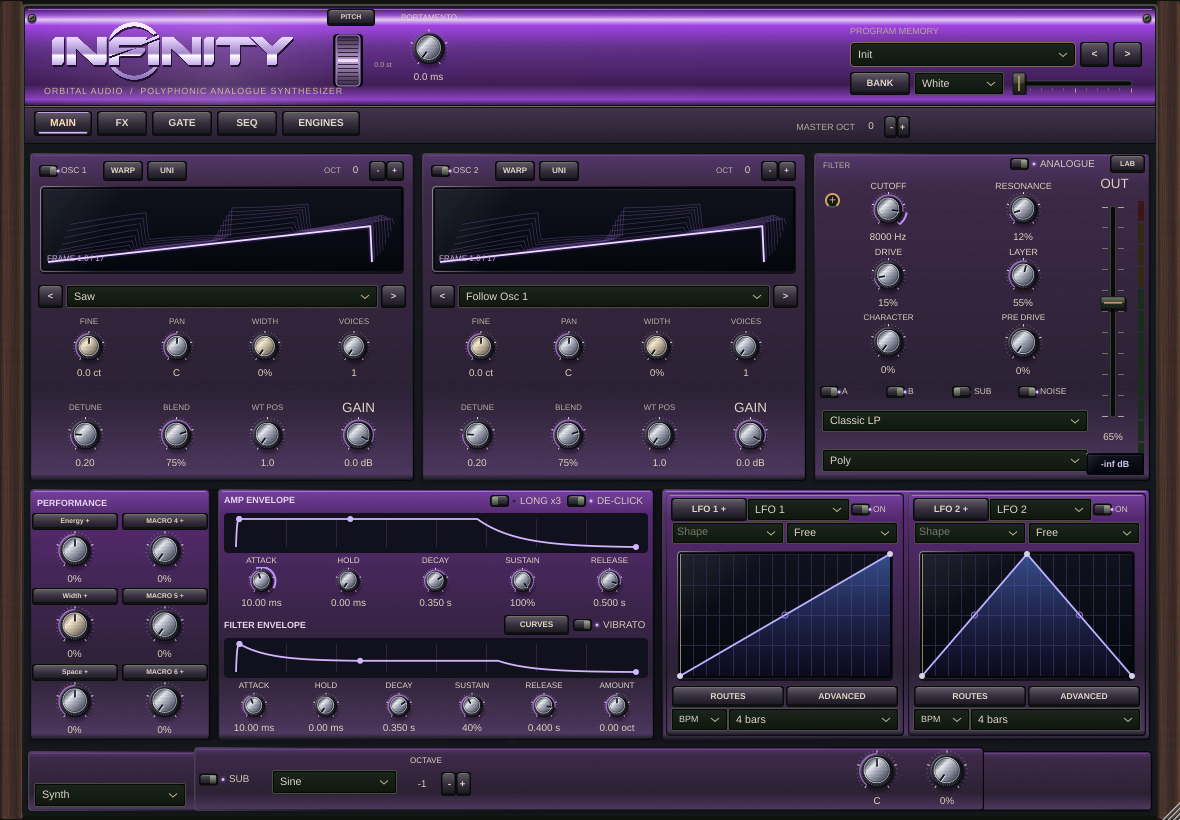
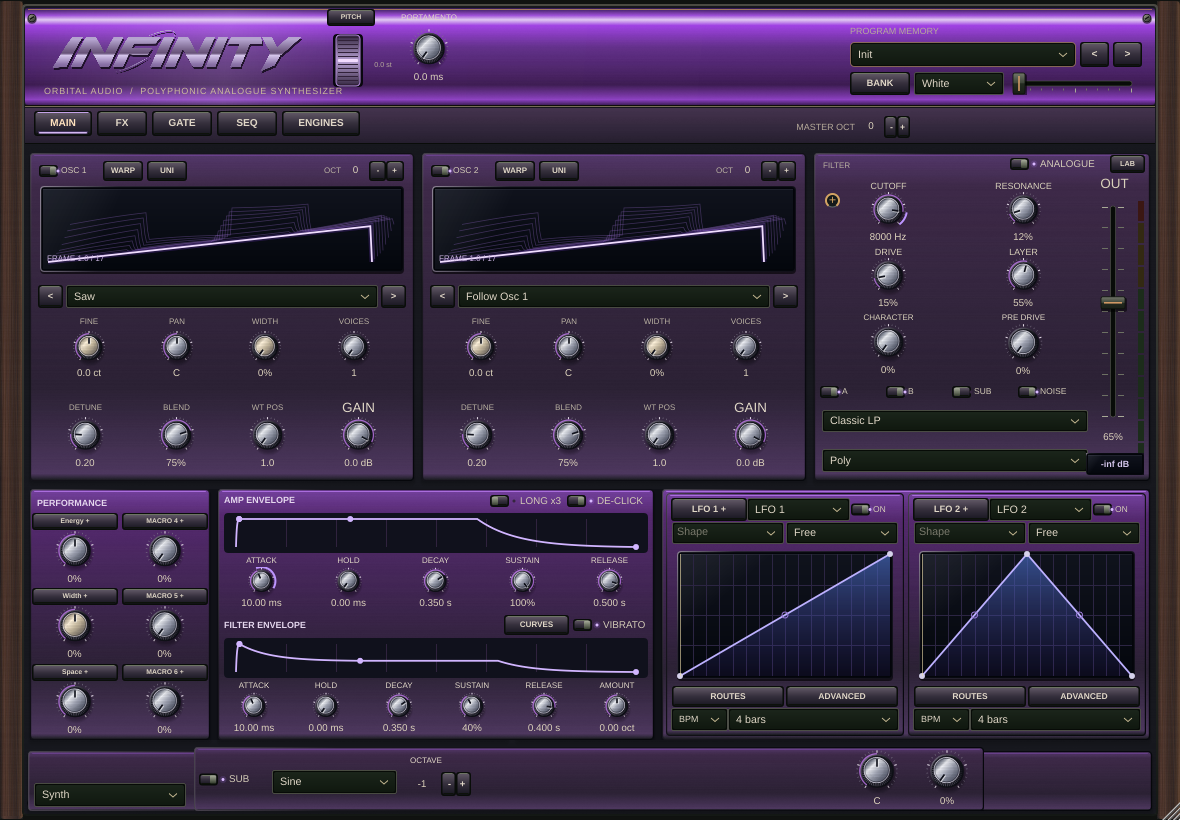
Add approved hard-trance badge with output-reactive purple lighting

Changed region(s): [[0.0305, 0.0305, 0.2746, 0.122]]

diff --git a/native-vst3/Tests/AnalogueExpansionSmoke.cpp b/native-vst3/Tests/AnalogueExpansionSmoke.cpp
@@ -26,6 +26,7 @@ int runAnalogueExpansionSmoke(){try{
     set(*p,"analogueThermal",.7f);set(*p,"ampHold",.037f);set(*p,"filterReleaseCurve",-.3f);set(*p,"osc2Pan",-.8f);set(*p,"concertPitch",442);juce::MemoryBlock saved;p->getStateInformation(saved);auto recalled=std::make_unique<SpaceInfinityProcessor>();recalled->setStateInformation(saved.getData(),int(saved.getSize()));for(auto id:{"analogueThermal","ampHold","filterReleaseCurve","osc2Pan","concertPitch"})need(get(*p,id)==get(*recalled,id),"analogue and envelope settings recall");
     const auto fixtureFolder=juce::File::getSpecialLocation(juce::File::tempDirectory).getNonexistentChildFile("InfinityConcertPitch",{},false);fixtureFolder.createDirectory();const auto fixture=fixtureFolder.getChildFile("A440.wav");juce::AudioBuffer<float> sine(1,48000);for(int n=0;n<48000;++n)sine.setSample(0,n,.5f*std::sin(juce::MathConstants<double>::twoPi*440*n/48000));{auto stream=fixture.createOutputStream();juce::WavAudioFormat wav;std::unique_ptr<juce::AudioFormatWriter> writer(wav.createWriterFor(stream.get(),48000,1,24,{},0));need(writer!=nullptr,"concert-pitch fixture writer");stream.release();need(writer->writeFromAudioSampleBuffer(sine,0,48000),"concert-pitch fixture samples");}auto tuned=std::make_unique<SpaceInfinityProcessor>();clean(*tuned);need(tuned->importSample(fixture).wasOk(),"concert-pitch fixture import");set(*tuned,"source",3);set(*tuned,"sampleRoot",69);set(*tuned,"sampleLoop",1);set(*tuned,"concertPitch",442);set(*tuned,"routeA",0);tuned->prepareToPlay(48000,128);juce::AudioBuffer<float> tunedAudio(2,128);int firstCross=-1,lastCross=-1,crossings=0;float previous=0;for(int block=0;block<220;++block){juce::MidiBuffer midi;if(block==0)midi.addEvent(juce::MidiMessage::noteOn(1,69,.8f),0);tuned->processBlock(tunedAudio,midi);for(int n=0;n<128;++n){const float value=tunedAudio.getSample(0,n);if(block>30&&value>=0&&previous<0){const int sample=block*128+n;if(firstCross<0)firstCross=sample;lastCross=sample;++crossings;}previous=value;}}const double pitch=48000.0*(crossings-1)/(lastCross-firstCross);need(std::abs(pitch-442)<.2,"concert A4 tuning applies to sample playback");for(int mode:{1,2}){set(*tuned,"voiceMode",float(mode));set(*tuned,"glideTime",.12f);set(*tuned,"concertPitch",440);tuned->prepareToPlay(48000,128);float prior=0;const auto hz=[&](int blocks,int note){int count=0;for(int block=0;block<blocks;++block){juce::MidiBuffer midi;if(block==0&&note>=0)midi.addEvent(juce::MidiMessage::noteOn(1,note,.8f),0);tuned->processBlock(tunedAudio,midi);for(int n=0;n<128;++n){const float v=tunedAudio.getSample(0,n);if(prior<=0&&v>0)++count;prior=v;}}return count*48000.0/(blocks*128);};hz(80,69);const auto early=hz(8,81);hz(220,-1);const auto late=hz(40,-1);need(early>400&&early<700&&late>820&&late<930,"sample playback supports mono and legato portamento");}fixtureFolder.deleteRecursively();
     auto editor=std::unique_ptr<juce::AudioProcessorEditor>(p->createEditor());editor->setSize(800,760);for(auto name:{"Analogue character","Pre-filter drive","Portamento time","Pitch Wheel","Amp envelope graph","Filter envelope graph","Amp HOLD","Filter HOLD","Oscillator 1 pan","Oscillator 2 pan","Sub pan"})need(find(*editor,name)!=nullptr,"main analogue/envelope controls present");for(bool amp:{true,false}){auto* view=find(*editor,amp?"Amp envelope graph":"Filter envelope graph");need(view&&view->isVisible()&&view->getParentComponent()->isVisible()&&view->getHeight()>=32,"envelope graph visible on main page");const auto before=view->createComponentSnapshot(view->getLocalBounds());set(*p,amp?"attack":"filterAttack",.7f);set(*p,amp?"ampSustain":"filterSustain",.2f);const auto after=view->createComponentSnapshot(view->getLocalBounds());int changed=0;for(int y=0;y<before.getHeight();++y)for(int x=0;x<before.getWidth();++x)if(before.getPixelAt(x,y)!=after.getPixelAt(x,y))++changed;need(changed>20,"main envelope drawing follows knob parameters");}StudioRack rack(*p);rack.setSize(900,1800);int lastY=-1;for(int stage:{3,0,4,5,6,1,7,2}){auto* module=rack.module(stage);need(module&&module->getY()>lastY,"FX display follows actual DSP signal order");lastY=module->getY();}{rack.setLookAndFeel(&editor->getLookAndFeel());juce::Image spaces(juce::Image::ARGB,900,rack.module(7)->getHeight()+rack.module(2)->getHeight(),true);juce::Graphics canvas(spaces);int top=0;for(int stage:{7,2}){auto* module=rack.module(stage);canvas.drawImageAt(module->createComponentSnapshot(module->getLocalBounds()),0,top);top+=module->getHeight();}const auto folder=juce::File::getCurrentWorkingDirectory().getChildFile("audition");folder.createDirectory();auto file=folder.getChildFile("FX-Spaces.png");file.deleteFile();auto stream=file.createOutputStream();need(stream&&juce::PNGImageFormat{}.writeImageToStream(spaces,*stream),"space FX preview saved");rack.setLookAndFeel(nullptr);}ExtendedPanel panel(*p);juce::TabbedComponent* tabs=nullptr;for(auto* child:panel.getChildren())if(auto* t=dynamic_cast<juce::TabbedComponent*>(child))tabs=t;need(tabs!=nullptr,"engine tabs available");tabs->setCurrentTabIndex(5);for(const auto* pitch:{"MIDI BEND","PITCH VELOCITY","PITCH ENVELOPE","PITCH ATTACK","PITCH DECAY"})need(find(*tabs->getCurrentContentComponent(),pitch)==nullptr,"pitch controls removed from analogue section");tabs->setCurrentTabIndex(6);need(find(panel,"Amp envelope graph")!=nullptr,"interactive amp graph available");tabs->setCurrentTabIndex(0);need(find(panel,"Filter envelope graph")!=nullptr,"interactive filter graph available");
+    {auto signal=std::make_unique<SpaceInfinityProcessor>();clean(*signal);set(*signal,"routeA",0);set(*signal,"gain",.8f);signal->prepareToPlay(48000,128);auto badge=std::unique_ptr<juce::AudioProcessorEditor>(signal->createEditor());badge->setSize(1180,820);const juce::Rectangle<int> crop(52,22,250,58);const auto idle=badge->createComponentSnapshot(crop);juce::AudioBuffer<float> output(2,128);for(int block=0;block<45;++block){juce::MidiBuffer midi;if(block==0)midi.addEvent(juce::MidiMessage::noteOn(1,60,.9f),0);signal->processBlock(output,midi);}need(output.getMagnitude(0,output.getNumSamples())>.001f,"logo fixture has actual output");for(int frame=0;frame<12;++frame){juce::MidiBuffer midi;signal->processBlock(output,midi);juce::Thread::sleep(35);juce::Timer::callPendingTimersSynchronously();}const auto lit=badge->createComponentSnapshot(crop);int changed=0;for(int y=0;y<idle.getHeight();++y)for(int x=0;x<idle.getWidth();++x)if(idle.getPixelAt(x,y)!=lit.getPixelAt(x,y))++changed;need(changed>100,"actual output illuminates inside logo");const auto folder=juce::File::getCurrentWorkingDirectory().getChildFile("audition");for(int frame=0;frame<2;++frame){auto file=folder.getChildFile(frame?"Logo-Active.png":"Logo-Idle.png");file.deleteFile();auto stream=file.createOutputStream();need(stream&&juce::PNGImageFormat{}.writeImageToStream(frame?lit:idle,*stream),"logo light preview saved");}set(*signal,"gain",0);for(int block=0;block<40;++block){juce::MidiBuffer midi;signal->processBlock(output,midi);}for(int frame=0;frame<40;++frame){juce::Thread::sleep(35);juce::Timer::callPendingTimersSynchronously();}const auto silent=badge->createComponentSnapshot(crop);int residual=0;for(int y=0;y<idle.getHeight();++y)for(int x=0;x<idle.getWidth();++x)if(idle.getPixelAt(x,y)!=silent.getPixelAt(x,y))++residual;need(residual<10,"muted held notes fade logo back to idle");}
     auto old=p->state.copyState();for(int i=old.getNumChildren();--i>=0;){const auto id=old.getChild(i).getProperty("id").toString();if(id=="cleanVCO"||id=="analogueLabEnabled"||id=="stereoFilterUpgrade"||id=="concertPitch"||id.endsWith("Pan")||id.endsWith("Hold")||id.endsWith("Curve")||id.startsWith("analogueOsc")||id.startsWith("analogueThermal")||id.startsWith("analogueFilterSpread")||id.startsWith("analogueEnvSpread")||id.startsWith("analogueVoiceSpread")||id.startsWith("analoguePulse")||id.startsWith("analogueVCA")||id.startsWith("analogueAsymmetry")||id.startsWith("analogueMemory")||id.startsWith("analogueCoupling"))old.removeChild(i,nullptr);}juce::MemoryBlock oldData;juce::AudioProcessor::copyXmlToBinary(*old.createXml(),oldData);recalled->setStateInformation(oldData.getData(),int(oldData.getSize()));need(get(*recalled,"cleanVCO")==0&&get(*recalled,"analogueLabEnabled")==0&&get(*recalled,"stereoFilterUpgrade")==0&&get(*recalled,"ampHold")==0&&get(*recalled,"osc2Pan")==0&&get(*recalled,"concertPitch")==440,"old presets retain legacy defaults");
     std::cout<<"Analogue expansion: hold/curves, zero-colour bypass, VCA audio, stability/silence, all six stereo filters/four source pans, interactive envelopes, modulation targets and old/new recall passed\n";return 0;
 }catch(const std::exception& e){std::cerr<<"Analogue expansion failure: "<<e.what()<<'\n';return 124;}}

diff --git a/native-vst3/Source/PluginEditor.cpp b/native-vst3/Source/PluginEditor.cpp
@@ -260,10 +260,14 @@ void drawInset(juce::Graphics& g,juce::Rectangle<float> bounds){
 }
 SpaceInfinityEditor::SpaceInfinityEditor(SpaceInfinityProcessor& p):AudioProcessorEditor(&p),processor(p){
     setLookAndFeel(&hardwareLook);
-    infinityLogo=juce::ImageFileFormat::loadFrom(Artwork::InfinityLogo_png,Artwork::InfinityLogo_pngSize);
-    if(infinityLogo.isValid()){juce::Rectangle<int> ink;
-        for(int y=0;y<infinityLogo.getHeight();++y)for(int x=0;x<infinityLogo.getWidth();++x)if(infinityLogo.getPixelAt(x,y).getAlpha()>128)ink=ink.getUnion({x,y,1,1});
-        infinityLogo=infinityLogo.getClippedImage(ink.expanded(2).getIntersection(infinityLogo.getBounds()));}
+    const auto brandMaster=juce::ImageFileFormat::loadFrom(Artwork::InfinityLogo_png,Artwork::InfinityLogo_pngSize);
+    if(brandMaster.isValid()){
+        // The clean monochrome master supplies coverage, not a baked black plate.
+        infinityLogo=juce::Image(juce::Image::ARGB,brandMaster.getWidth(),brandMaster.getHeight(),true);
+        juce::Image::BitmapData source(brandMaster,juce::Image::BitmapData::readOnly),mask(infinityLogo,juce::Image::BitmapData::writeOnly);juce::Rectangle<int> ink;
+        for(int y=0;y<brandMaster.getHeight();++y)for(int x=0;x<brandMaster.getWidth();++x){const auto pixel=source.getPixelColour(x,y);const float coverage=juce::jlimit(0.0f,1.0f,(pixel.getBrightness()-.12f)/.76f)*pixel.getFloatAlpha();mask.setPixelColour(x,y,juce::Colours::white.withAlpha(coverage));if(coverage>.5f)ink=ink.getUnion({x,y,1,1});}
+        infinityLogo=infinityLogo.getClippedImage(ink.expanded(2).getIntersection(infinityLogo.getBounds()));
+    }
 
     setResizable(true,true);setResizeLimits(800,760,1500,950);setSize(1180,820);
     title.setText("SPACE INFINITY",juce::dontSendNotification);title.setFont(juce::Font(juce::FontOptions(29.0f,juce::Font::bold).withKerningFactor(.075f)));title.setColour(juce::Label::textColourId,juce::Colour(0xffefe4cb));addAndMakeVisible(title);
@@ -670,6 +674,9 @@ void SpaceInfinityEditor::timerCallback(){
     if(displayedPresetKey!=processor.selectedPresetKey())refreshPresetMenu();
     const float peak=processor.takeOutputPeak();
     meterPeak=juce::jmax(peak,meterPeak*0.88f);
+    const float targetLogoLevel=peak>.00003f?juce::jlimit(0.0f,1.0f,(juce::Decibels::gainToDecibels(peak)+54.0f)/54.0f):0.0f;
+    logoLevel+=(targetLogoLevel-logoLevel)*(targetLogoLevel>logoLevel?.75f:.22f);if(logoLevel<.002f)logoLevel=0;
+
     clipHold=peak>=1.0f?30:juce::jmax(0,clipHold-1);
     const bool sampled=processor.state.getRawParameterValue("source")->load()>.5f;
     if(sampleDisplay)sampleDisplay->setVisible(!fxPage&&sampled);
@@ -982,9 +989,16 @@ void SpaceInfinityEditor::paint(juce::Graphics& g){
     g.drawImageAt(hardwareFace,0,0);
     if(infinityLogo.isValid()){
         g.setImageResamplingQuality(juce::Graphics::highResamplingQuality);
-        const int logoWidth=juce::jlimit(220,340,getWidth()-480);const int placement=juce::RectanglePlacement::xLeft|juce::RectanglePlacement::yMid;
+        const int logoWidth=juce::jmin(250,getWidth()-540);const int placement=juce::RectanglePlacement::xLeft|juce::RectanglePlacement::yMid;
         g.setColour(juce::Colour(0xbb08050c));g.drawImageWithin(infinityLogo,53,24,logoWidth,58,placement,true);
-        juce::ColourGradient foil(juce::Colour(0xfffff5ff),0,22,juce::Colour(0xff8b6cba),0,80,false);foil.addColour(.30,juce::Colour(0xffe5d5ff));foil.addColour(.53,juce::Colour(0xffa88acb));foil.addColour(.57,juce::Colour(0xffffffff));foil.addColour(.72,juce::Colour(0xffcbb2f2));g.setGradientFill(foil);g.drawImageWithin(infinityLogo,52,22,logoWidth,58,placement,true);
+        juce::ColourGradient foil(juce::Colour(0xffaea3c5),0,22,juce::Colour(0xff50405f),0,80,false);foil.addColour(.30,juce::Colour(0xffb6a5d0));foil.addColour(.53,juce::Colour(0xff655076));foil.addColour(.57,juce::Colour(0xffd4c5ea));foil.addColour(.72,juce::Colour(0xff8b72a8));g.setGradientFill(foil);g.drawImageWithin(infinityLogo,52,22,logoWidth,58,placement,true);
+        if(logoLevel>0){
+            // Illuminate inside the letter coverage only, like a level light in a metal badge.
+            juce::Graphics::ScopedSaveState illuminated(g);const float litWidth=logoWidth*logoLevel;
+            g.reduceClipRegion(juce::Rectangle<int>(52,22,juce::roundToInt(litWidth),58));
+            const float alpha=.2f+.75f*logoLevel;juce::ColourGradient light(juce::Colour(0xffbf7aff).withAlpha(alpha),52,51,juce::Colour(0xfff4ddff).withAlpha(alpha),52+litWidth,51,false);light.addColour(.74,juce::Colour(0xffedb7ff).withAlpha(alpha));g.setGradientFill(light);g.drawImageWithin(infinityLogo,52,22,logoWidth,58,placement,true);
+        }
+
     }
 
     g.setFont(10.0f);

diff --git a/native-vst3/Tests/Smoke.cpp b/native-vst3/Tests/Smoke.cpp
@@ -17,7 +17,7 @@ int runLeadSmoke();
 int runGrooveSmoke();
 
 int writeParameterInventory(const juce::File& file){
-    auto p=std::make_unique<SpaceInfinityProcessor>();auto* root=new juce::DynamicObject;juce::var result(root);root->setProperty("native_version","0.4.0");root->setProperty("manual_reference","https://xferrecords.com/manual/serum-2/docs");root->setProperty("notes","Host defaults preserve omitted-field legacy recall. Init values reflect a fresh Init preset. Ranges are native parameter units; UI formatting may apply units and scaling.");juce::Array<juce::var> rows;
+    auto p=std::make_unique<SpaceInfinityProcessor>();auto* root=new juce::DynamicObject;juce::var result(root);root->setProperty("native_version","0.4.1");root->setProperty("manual_reference","https://xferrecords.com/manual/serum-2/docs");root->setProperty("notes","Host defaults preserve omitted-field legacy recall. Init values reflect a fresh Init preset. Ranges are native parameter units; UI formatting may apply units and scaling.");juce::Array<juce::var> rows;
     for(auto* parameter:p->getParameters())if(auto* a=dynamic_cast<juce::RangedAudioParameter*>(parameter)){auto* row=new juce::DynamicObject;row->setProperty("id",a->paramID);row->setProperty("name",a->getName(120));row->setProperty("type",dynamic_cast<juce::AudioParameterBool*>(a)?"boolean":dynamic_cast<juce::AudioParameterChoice*>(a)?"choice":dynamic_cast<juce::AudioParameterInt*>(a)?"integer":"float");row->setProperty("minimum",a->convertFrom0to1(0));row->setProperty("maximum",a->convertFrom0to1(1));row->setProperty("host_default",a->convertFrom0to1(a->getDefaultValue()));row->setProperty("init_value",p->state.getRawParameterValue(a->paramID)->load());if(auto* choice=dynamic_cast<juce::AudioParameterChoice*>(a)){juce::Array<juce::var> names;for(const auto& name:choice->choices)names.add(name);row->setProperty("choices",names);}rows.add(juce::var(row));}root->setProperty("parameter_count",rows.size());root->setProperty("parameters",rows);if(file.getParentDirectory().createDirectory().failed()||!file.replaceWithText(juce::JSON::toString(result)))return 125;std::cout<<"Exported "<<rows.size()<<" native parameters to "<<file.getFullPathName()<<'\n';return 0;
 }
 

diff --git a/native-vst3/Source/PluginEditor.h b/native-vst3/Source/PluginEditor.h
@@ -31,7 +31,7 @@ private:
     float lastMotionValue=0.0f;
     std::array<bool,17> motionGestures{};
     juce::Rectangle<int> meterBounds;
-    float meterPeak=0.0f;
+    float meterPeak=0.0f,logoLevel=0.0f;
     int clipHold=0;
     HardwareTheme hardwareLook;
     juce::Image hardwareFace;

diff --git a/docs/TESTING_STUDIO_BUILD.md b/docs/TESTING_STUDIO_BUILD.md
@@ -1,6 +1,6 @@
-# Testing SPACE INFINITY 0.4.0
+# Testing SPACE INFINITY 0.4.1
 
-Download the **installer ZIP** from the [v0.4.0 release](https://github.com/vegadubstep-star/Space-Infinity/releases/tag/v0.4.0) once its Windows workflow has published it. Sign into GitHub if needed. Extract All, close FL Studio, run `SPACE_INFINITY_0.4.0_Windows_x64_Setup.exe`, then reopen FL Studio and load a fresh SPACE INFINITY instance. The plugin identity and user preset storage are preserved.
+Download the **installer ZIP** from the [v0.4.1 release](https://github.com/vegadubstep-star/Space-Infinity/releases/tag/v0.4.1) once its Windows workflow has published it. Sign into GitHub if needed. Extract All, close FL Studio, run `SPACE_INFINITY_0.4.1_Windows_x64_Setup.exe`, then reopen FL Studio and load a fresh SPACE INFINITY instance. The plugin identity and user preset storage are preserved.
 
 [Analogue update](ANALOGUE_AND_PARITY_UPDATE.md) / [Serum 2 audit](SERUM2_FEATURE_AUDIT.md) / [earlier rhythm changes](RHYTHM_AND_METAL_UPDATE.md) / [previous control and FX updates](TEN_CONTROL_UPDATES.md)
 
@@ -23,3 +23,5 @@ Use the installer ZIP for normal setup. The standalone VST3 ZIP is the manual-in
 Latest UI checks: MAIN shows both amp/filter curves above their knobs. Adjust Attack, Hold, Decay, Sustain and Release and confirm each graph changes. LFO shape presets should show few main anchors; use outlined midpoint handles to bend segments, or Advanced for Grid/Draw. For delay, reverb and convolver, fully lower OUTPUT GAIN until MUTE is displayed: both dry and wet stage output should become silent after the short smoothing ramp, with no live stage peak. Raising gain should restore sound. DRY/WET and convolver WET LEVEL affect wet blending rather than muting the whole stage. Saved output values at the old −24 dB minimum now mute.
 
 MAIN analogue/pitch checks: Character, PRE DRIVE, ANALOGUE and LAB should sit beside the filter at all four sizes. PITCH opens a separate pitch page; ANALOGUE has no pitch-envelope or pitch-bend controls. Set Mono or Legato, raise PORTAMENTO and overlap notes to hear glide (including sample playback). Automate Pitch Wheel in FL Studio for risers; zero is centre and +12 st raises one octave.
+
+Logo check (0.4.1): the approved clean hard-trance badge must clear the pitch wheel at every size. Play sound: purple illumination fills within the letters with final output level. Lower master output to zero: the light should decay smoothly to idle, with no MIDI-only flashes or light from a muted signal. The metal lettering remains visible at silence.

diff --git a/docs/ANALOGUE_AND_PARITY_UPDATE.md b/docs/ANALOGUE_AND_PARITY_UPDATE.md
@@ -1,8 +1,14 @@
-# SPACE INFINITY 0.4.0 — analogue controls and manual audit
+# SPACE INFINITY 0.4.1 — hard-trance badge and output light
+
+Version 0.4.1 adds the approved sharper hard-trance badge and its output-reactive purple light, retaining the complete 0.4.0 controls update. [Light active](images/Logo-Active.png) / [Idle metal finish](images/Logo-Idle.png).
 
 This update keeps the existing analogue filters and controls and adds more direct control over hardware-like variation. It also includes a [module-by-module Serum 2 audit](SERUM2_FEATURE_AUDIT.md). The audit finds real feature gaps; this release is not represented as a full Serum 2 replacement or an identical Xfer sound engine.
 
 ## Changes
+
+- **Output-reactive badge:** the new wordmark also acts as a purple level light. Illumination travels inside the letter shapes with final output level, then fades smoothly back to the idle metal finish. It follows post-output audio, not MIDI note activity.
+
+- **Hard-trance identity:** the approved INFINITY badge uses cleaner, sharper forward-leaning lettering and a minimal orbital accent. The native renderer turns its monochrome master into a clean anti-aliased mask and applies the purple metal finish. The smaller fitted badge clears the pitch wheel at every supported window size.
 
 - **Logo fit:** smaller INFINITY logo with more top/side clearance, checked at the supported window sizes.
 
@@ -23,7 +29,7 @@ Two visible LFOs, broad macro routing, WT POS, 3D frame views, the six original 
 
 ## Test it
 
-Download the **v0.4.0 Windows installer ZIP** from its release page, extract it, close FL Studio, run Setup.exe and reopen a fresh synth instance. Keep older installers if you want to compare versions.
+Download the **v0.4.1 Windows installer ZIP** from its release page, extract it, close FL Studio, run Setup.exe and reopen a fresh synth instance. Keep older installers if you want to compare versions.
 
 1. Compare the new component switch on/off on a factory preset. Turn up one control at a time. VCA drive can compress peaks; it is a tone control, not an automatic loudness-matching switch.
 2. Check that old saved sounds recall and the original analogue/filter controls still work.

diff --git a/docs/SESSION_HANDOVER.md b/docs/SESSION_HANDOVER.md
@@ -1,3 +1,15 @@
+# v0.4.1 logo refinement — in progress
+
+User approved the sharper, less busy hard-trance wordmark ("CLASS"). Source artwork generated at /workspace/generated_images/exec-7a814659-2539-4da1-9b3b-672c2198bf47.png; copied to native-vst3/Assets/InfinityLogo.png without deleting the original. Runtime luminance coverage supplies a clean mask; native foil shading remains purple metal. Badge capped at 250 px to clear the pitch controls. Version bumped to 0.4.1. The badge now includes output-reactive purple illumination clipped inside the letter mask, driven by the same post-output peak used for the master meter, with fast attack/smooth release. Actual audio lights it; master-muting held notes fades it to idle. Seven relevant local native/UI/workflow suites passed; final badge colour/layout checks passed at all four sizes. Windows publication and download verification are pending.
+
+# Verified v0.4.0 — 12 November 2026
+
+v0.4.0 is published and downloaded/verified, source 4ad577fe644f1787bd20631446644de2e1a35889, workflow 43261025047. All 15 Windows suites, installer checks, archive verification, publication and cache steps passed. Actual downloaded installer ZIP, contained Setup and VST3 ZIP match published checksums; VST3 is Windows x64 PE. Latest packaged notes match source and inventory has 1,068 parameters.
+
+- Installer ZIP SHA-256: 1cc5156c9f67187ed1c80918b321a3c55db6f50adf81e985bba8a0a0bc652966
+- Setup SHA-256: 84812f4a1824bbf4806a4cb7d93e79f5f08ecfc708dacd7e3d2b780c8ee2f929
+- VST3 ZIP SHA-256: b96bd9cea3a94c6c51db2fa67a32c41abc85a056abcc9a1b802660bfb6ca6143
+
 # v0.4.0 candidate — 12 November 2026
 
 The analogue/manual-audit update and latest main-page envelope/LFO/FX fixes are complete locally. All **15 native suites passed** at a 1 MiB stack limit. The parameter inventory verifies **1,068 unique IDs**, finite ranges and valid defaults/Init values. Release scripts parse and publisher mocks pass success, failed-upload and wrong-size cases, including audit/inventory ZIP contents and absolute release links.

diff --git a/docs/SERUM2_FEATURE_AUDIT.md b/docs/SERUM2_FEATURE_AUDIT.md
@@ -1,4 +1,4 @@
-# Serum 2 manual audit — SPACE INFINITY 0.4.0
+# Serum 2 manual audit — SPACE INFINITY 0.4.1
 
 Audited against Xfer’s [official Serum 2 User Guide](https://xferrecords.com/manual/serum-2/docs), accessed 12 November 2026. Page numbers below refer to the printed guide. The supplementary analogue reference is u-he’s [Diva User Guide](https://u-he.com/downloads/manuals/plugins/diva/Diva-user-guide.pdf), especially Trimmers and Transient Mode, pp. 47–48.
 
